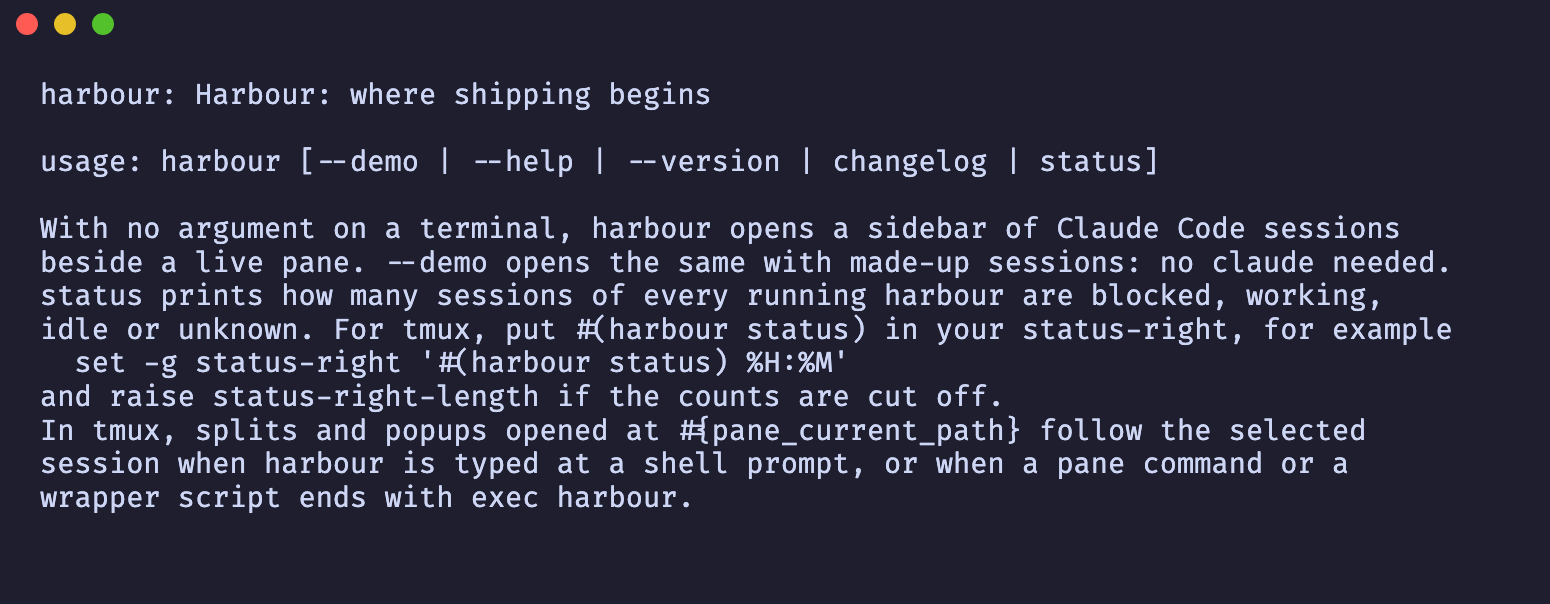
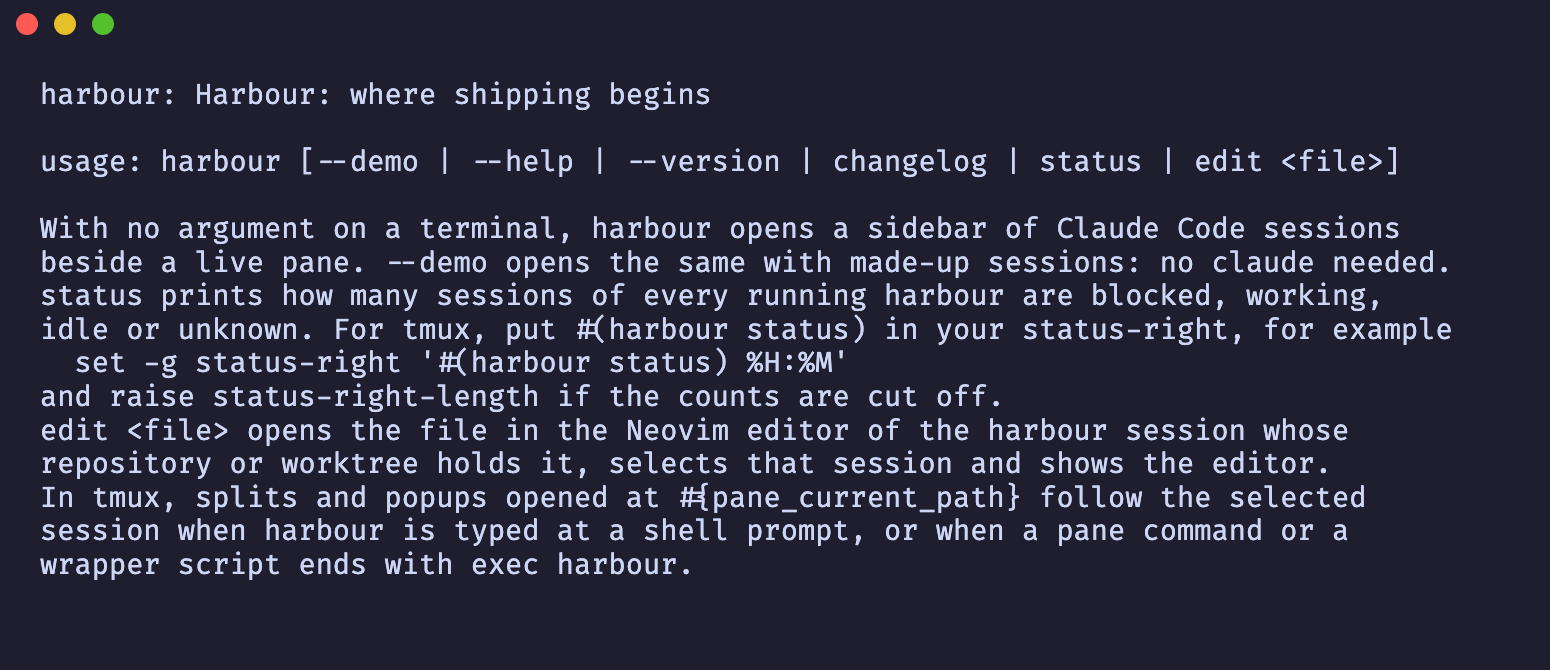
Write harbour edit into the guidelines and build the peer check on Linux
AGENTS.md names src/handoff.rs, src/app/handoff.rs and their tests, and lists
answering harbour edit on the draw thread as a known limit. docs/help.png shows
edit in the usage. The phase 12 plan gets its outcome and hurdles. The check
that a request comes from the same user reads SO_PEERCRED on Linux, where
getpeereid does not exist and the build failed.

diff --git a/src/handoff.rs b/src/handoff.rs
@@ -13,7 +13,7 @@ use std::time::{Duration, Instant, SystemTime};
 
 use nix::errno::Errno;
 use nix::sys::socket::{AddressFamily, SockFlag, SockType, UnixAddr};
-use nix::unistd::{Uid, getpeereid};
+use nix::unistd::Uid;
 
 const LONGEST_PATH: usize = 4096;
 const LONGEST_REQUEST: usize = LONGEST_PATH + 64;
@@ -313,8 +313,7 @@ impl Listener {
 }
 
 fn received(stream: UnixStream) -> Option<Request> {
-    let (uid, _) = getpeereid(&stream).ok()?;
-    if uid != Uid::current() {
+    if peer(&stream)? != Uid::current() {
         return None;
     }
     stream.set_nonblocking(false).ok()?;
@@ -339,6 +338,18 @@ fn received(stream: UnixStream) -> Option<Request> {
         file: PathBuf::from(OsString::from_vec(file.to_vec())),
         stream,
     })
+}
+
+#[cfg(target_os = "linux")]
+fn peer(stream: &UnixStream) -> Option<Uid> {
+    let credentials =
+        nix::sys::socket::getsockopt(stream, nix::sys::socket::sockopt::PeerCredentials).ok()?;
+    Some(Uid::from_raw(credentials.uid()))
+}
+
+#[cfg(not(target_os = "linux"))]
+fn peer(stream: &UnixStream) -> Option<Uid> {
+    nix::unistd::getpeereid(stream).ok().map(|(uid, _)| uid)
 }
 
 struct Bound {

diff --git a/AGENTS.md b/AGENTS.md
@@ -44,15 +44,17 @@ The layout names what each file or directory is for; read its functions from the
 rules from the `AGENTS.md` of its directory.
 
 ```
-src/main.rs      the binary: `--version`/`-V`/`version`, `--help`/`-h`/`help`, `changelog`, `status` (the counts for the tmux status line), the interface with no argument on a terminal, the same with made-up sessions for `--demo` on a terminal, the usage on anything else
+src/main.rs      the binary: `--version`/`-V`/`version`, `--help`/`-h`/`help`, `changelog`, `status` (the counts for the tmux status line), `edit <file>` (`src/handoff.rs`), the interface with no argument on a terminal, the same with made-up sessions for `--demo` on a terminal, the usage on anything else
 src/lib.rs                    the library the binary and the tests share
-src/tui.rs                    the terminal: enters and restores it, reads its events, draws the app; the program a session runs (`claude`, given `--session-id`, or what `HARBOUR_SESSION_COMMAND` names, given none; the transcripts are read for both); the directory picker (fzf over zoxide's list, or what `HARBOUR_DIR_PICKER` names); the editor (`nvim`, or the one program `HARBOUR_EDITOR` names, Neovim when its file name is `nvim`); it hands the app the real `chdir`, and makes a relative `CLAUDE_CONFIG_DIR` absolute before harbour moves
+src/tui.rs                    the terminal: enters and restores it, reads its events, draws the app, and hands it the listener of `harbour edit` (never in the demo); the program a session runs (`claude`, given `--session-id`, or what `HARBOUR_SESSION_COMMAND` names, given none; the transcripts are read for both); the directory picker (fzf over zoxide's list, or what `HARBOUR_DIR_PICKER` names); the editor (`nvim`, or the one program `HARBOUR_EDITOR` names, Neovim when its file name is `nvim`); it hands the app the real `chdir`, and makes a relative `CLAUDE_CONFIG_DIR` absolute before harbour moves
 src/picker.rs                 the directory picker of `n`: a program run as a session in a popup, its standard output sent to a file in a temporary directory only its owner can open (0700), the first line it prints, as bytes, canonicalized (read from where harbour was opened when relative), every path kept as bytes on the way into its arguments, exit statuses 126 and 127 (and 2 for fzf) named as "could not start"; fzf given `--no-expect --no-print-query --no-read0 --no-print0` after the user's `FZF_DEFAULT_OPTS`, so it prints one directory a line; for fzf the popup's own shell writes the list (harbour's directory first, then the list command's lines without it) into a FIFO fzf reads, so a slow list never holds up harbour, and a missing fzf means "start at once"; a bare program name is searched on `PATH` with each relative entry taken from where harbour was opened, where the popup's shell runs it
 src/app/mod.rs                the app: its state and what each key, paste and mouse event does; each session's one directory Claude Code was last seen in, which C-l opens, and its editors, one per directory, which `e` shows in turn
-src/app/draw.rs               what the app draws
+src/app/draw.rs               what the app draws, after answering up to 4 `harbour edit` requests a frame
+src/app/handoff.rs            which session holds a file `harbour edit` names (a path inside a session's `root`, resolved through symlinks; the selected session first, else the one whose keys, paste or mouse came last) and opening it: that session selected and its editor shown with the file, as C-l would show it; refused while a question or the picker waits, for an editor that is not Neovim, and when Neovim cannot start or take the file
+src/handoff.rs                `harbour edit <file>` and its listener: the file made absolute (its folder resolved when the file does not exist yet, 4096 bytes at most), every harbour asked over a socket in a private (0700) `$XDG_STATE_HOME/harbour/edit/`, else `~/.local/state/harbour/edit/`, which of its sessions holds it and when that one was last used, and the latest told to open it; the listener binds `<pid>-<n>.sock` (0600), removes it when dropped, binds again within 5 s when it is gone, removes the sockets no process listens on, and reads only a request from its own user that arrives within 100 ms and has not expired
 src/follow.rs                 where harbour works, so tmux's `#{pane_current_path}` follows the selected session: the `root` of the editor for its last seen directory, or where harbour was opened with no session or when that directory is gone or cannot be entered; checked at a frame when the selection or the directory changed, else every half second, and moved to only when it differs by path or by device and inode (a directory replaced in place is entered again); `temporary`, the temporary directory made absolute at start
 src/editor.rs                 an editor beside a session's Claude Code pane: the program it runs and the directory it belongs to, `root` (the repository root `repo::root` finds, the card's own walk, never walked up from a directory that is gone); Neovim listens on a socket in a private (0700) temporary directory removed with the editor, under `/tmp` when the temporary directory would make the socket path too long for macOS (103 bytes), and without one when that directory cannot be made, and says through it whether it has unsaved changes (`changes`: saved, unsaved, or unknown when it cannot be asked; a modified buffer counts when its `buftype` is empty or `acwrite`, a file the user would lose, never a terminal, prompt, `nofile` or `nowrite` buffer), and whether C-h stays in it (`wants_ctrl_h`: anything but mode `n` or `nt` with `blocking` false in the leftmost window); a session's editors end with it
-src/nvim.rs                   `mode` and `eval`: one msgpack-RPC `nvim_get_mode` or `nvim_eval` over that socket, the connect, the write and the read all bounded by one deadline, the reply matched by its request id (a notification before it is skipped, at most 1 MiB read), `None` for no answer before the deadline
+src/nvim.rs                   `mode`, `eval` and `edit`: one msgpack-RPC `nvim_get_mode`, `nvim_eval` or `nvim_cmd` (`edit` with the path as bytes and `magic` off, so `%`, `#`, `|` and spaces stay in the name) over that socket, the connect, the write and the read all bounded by one deadline, the reply matched by its request id (a notification before it is skipped, at most 1 MiB read), `None` for no answer before the deadline
 src/tabs.rs                   `strip`, a pure function: the pane border's `claude | <editor>: <directory>`, fitted by display width (the directory loses its start first, then the editor's name; nothing shows once not one column of the editor's name fits)
 src/session.rs                a session: a command in a PTY, refused as `Not a directory: <path>` when its directory is not one, its output parsed into a screen that renders as a widget, its terminal queries answered, its exit status, its screen never under 2 rows or 2 columns (vt100 panics below that); every call into vt100 contained, so a panic gives that session a fresh screen with the modes its program had turned on and a repaint instead of taking harbour down, and the panic hook stays silent for it; writes go through a writer thread so a child that does not read never blocks the interface; ending it (or dropping it) hangs up its whole process group, then kills it, only while the child is unreaped; quitting hangs up every session first and waits once
 src/demo.rs                   the made-up sessions of `--demo` and its picker (fzf over made-up directories, without harbour's directory), and its `nvim` (a script printing a made-up file, no socket): `acme/*` scripts, never real data; the registry they write in the temp dir, with a made-up checkout for each session to start in, removed when dropped
@@ -101,9 +103,10 @@ plans/                        one versioned plan file per phase, ending with its
 plans/metrics.md              time and tokens, one row per phase
 tests/           outside-in: `tests/cli.rs` runs the real binary;
                  `tests/scripts/` runs the scripts in a scratch directory and repository, with `tests/fixtures/` standing in for `cargo`, `gh`, `curl` and the scripts they call;
-                 `tests/e2e/` runs the real binary in a scratch tmux server (`#[ignore]`, see `tests/AGENTS.md`), with `HARBOUR_SESSION_COMMAND` pointing sessions at `tests/fixtures/agent.sh` (prints what it reads, a line at a time) or `tests/fixtures/raw-agent.sh` (asks for bracketed paste and the mouse, prints every byte it reads) instead of `claude`, or at `tests/fixtures/args-agent.sh` (prints its arguments, also linked as `claude` on the scratch `PATH` to see what the default gets), or at `tests/fixtures/registered-agent.sh` (writes a busy registry file under `CLAUDE_CONFIG_DIR`, else `HOME`, so it only runs with a scratch `HOME`) or `tests/fixtures/titled-agent.sh` (the same with a `sessionId` and a transcript); `tests/e2e/cards.rs` holds the tests of the cards, `HARBOUR_DIR_PICKER` at `tests/fixtures/picker.sh` (prints the line it reads), `HARBOUR_EDITOR` at `tests/fixtures/editor.sh` (prints its first argument, also linked as `nvim` to see what Neovim gets) or at `tests/fixtures/nvim/nvim` (a real Neovim with `--clean`, see `tests/AGENTS.md`), all three cleared from the environment unless the test sets them, `CLAUDE_CONFIG_DIR` cleared, `TMPDIR` a directory under the scratch `HOME` (so a picker left open leaves nothing behind), and `PATH` a scratch directory of links to the few tools the fixtures run, so no fzf or zoxide is on it;
+                 `tests/e2e/` runs the real binary in a scratch tmux server (`#[ignore]`, see `tests/AGENTS.md`), with `HARBOUR_SESSION_COMMAND` pointing sessions at `tests/fixtures/agent.sh` (prints what it reads, a line at a time) or `tests/fixtures/raw-agent.sh` (asks for bracketed paste and the mouse, prints every byte it reads) instead of `claude`, or at `tests/fixtures/args-agent.sh` (prints its arguments, also linked as `claude` on the scratch `PATH` to see what the default gets), or at `tests/fixtures/registered-agent.sh` (writes a busy registry file under `CLAUDE_CONFIG_DIR`, else `HOME`, so it only runs with a scratch `HOME`) or `tests/fixtures/titled-agent.sh` (the same with a `sessionId` and a transcript); `tests/e2e/cards.rs` holds the tests of the cards, `HARBOUR_DIR_PICKER` at `tests/fixtures/picker.sh` (prints the line it reads), `HARBOUR_EDITOR` at `tests/fixtures/editor.sh` (prints its first and last argument, also linked as `nvim` to see what Neovim gets) or at `tests/fixtures/nvim/nvim` (a real Neovim with `--clean`, see `tests/AGENTS.md`), all three cleared from the environment unless the test sets them, `CLAUDE_CONFIG_DIR` cleared, `TMPDIR` a directory under the scratch `HOME` (so a picker left open leaves nothing behind), and `PATH` a scratch directory of links to the few tools the fixtures run, so no fzf or zoxide is on it;
                  `tests/status.rs` runs `harbour status` over summaries a test writes and locks itself, `tests/summary.rs` writes them with `Summary`;
                  `tests/session.rs` and `tests/app/` run sessions in process, as `/bin/sh -c` scripts;
+                 `tests/edit.rs` runs `harbour edit` against listeners of `tests/handoff.rs`'s kind, which a test answers itself; `tests/app/handoff.rs` hands the app requests and stands in a socket for Neovim; `tests/e2e/edit.rs` runs `harbour edit` against harbour, and `tests/e2e/neovim.rs` against a real clean Neovim;
                  `tests/app/moving.rs` hands the app a recording move, never the real one; `tests/e2e/moving.rs` reads `#{pane_current_path}` of a harbour started with `Server::exec`;
                  `tests/tabs.rs` is the table of how the pane border's names fit a width;
                  `tests/text.rs` covers measuring, cutting, wrapping and cleaning text, `tests/card.rs` a card's lines, `tests/repo.rs` reading a repository and branch from scratch `.git` layouts, `tests/transcript.rs` reading a transcript;
@@ -171,6 +174,11 @@ impact.
   reads the session's registry file, then lists the transcript projects for the transcript of
   the session id it follows and reads what was appended to it, at most its last MiB
   (`src/transcript.rs`).
+- **`harbour edit` is answered on the draw thread**: up to 4 requests a frame, each read within
+  100 ms of its connection, and an open into a running Neovim asks it within 1 s, so a Neovim
+  that never answers holds the interface that long; a state directory path too long for a Unix
+  socket (104 bytes on macOS) means harbour never listens and `harbour edit` says none is
+  running (`plans/phase-12-edit-from-outside.md`).
 - **An editor's empty socket directory stays behind when a signal kills harbour**, a kill or the
   hangup of closing its terminal window: each Neovim's private directory in the temp directory is
   removed when its editor is dropped, which neither reaches (`src/editor.rs`).

diff --git a/plans/phase-12-edit-from-outside.md b/plans/phase-12-edit-from-outside.md
@@ -38,7 +38,8 @@ Unix sockets in a scratch `mktemp -d`.
   `tempfile::tempdir()` home plus `.local/state/harbour/edit/` is about 86 bytes before the
   socket's name: names must stay short.
 - `nix` 0.28 has `getuid` and `getpeereid` behind its `user` feature; harbour enables `signal`
-  and `socket` only, so this phase adds `user` (no new crate).
+  and `socket` only, so this phase adds `user` (no new crate). `getpeereid` exists only on
+  macOS and the BSDs; Linux reads the peer through `getsockopt` with `PeerCredentials`.
 
 ## How `harbour edit` reaches a running harbour
 
@@ -148,12 +149,34 @@ Product decisions the issue did not settle, each taken the most conservative way
    sender's `ask` and `open` with their deadlines, the expiry, the peer check.
 4. The app answers `ask` and `open`: which session holds the file, last use, refusals.
 5. Neovim gets the file: `nvim_cmd` with `magic` off to a running one, `-- <path>` to a new one;
-   refusals from Neovim; the fixture Neovim in-process, a real `nvim --clean` end to end.
+   refusals from Neovim; the fixture Neovim in-process.
 6. The terminal interface listens; end-to-end tests run `harbour edit` against harbour in a
-   scratch tmux server.
+   scratch tmux server, with the fixture editor and with a real `nvim --clean` (moved here from
+   task 5: a real Neovim runs only in the tmux tests).
 7. Guidelines: the layout lines and Known limits in `AGENTS.md`, the README checked, the
    screenshots.
 
 ## Outcome
 
+- `harbour edit <file>` shipped: the file made absolute, every running harbour asked over a
+  socket in its private state folder which session holds it, the one used last told to open
+  it; harbour selects that session and shows its Neovim with the file, starting one at the
+  session's root when none runs there.
+- The channel is one Unix socket per harbour (`<pid>-<n>.sock`, 0600, in a 0700 folder),
+  a request read only from the same user, within 100 ms, before its expiry; replies are one
+  line. Neovim gets the file after `--` when it starts, else through `nvim_cmd` `edit` with the
+  path as bytes and `magic` off, which a real clean Neovim confirmed for `acme %b#c|d e.rs`.
+- The app answers up to 4 requests a frame on the draw thread; an open into a running Neovim
+  waits at most 1 s for it. Both are in "Known limits".
+- A session holds only paths inside its root; the editor used is the one running at that root,
+  else a new one, as with Ctrl-l (older editors at other roots are not chosen).
+- The fixture editor `tests/fixtures/editor.sh` now prints its last argument too.
+
 ## Hurdles
+
+- `tooling` On macOS, `setsockopt` read and write timeouts fail with EINVAL once the peer has closed, so a reply to a sender that already left errored before the write; timeouts are now set before writing and their errors ignored → code
+- `test-seam` A temporary `Listener` in a test was dropped at the end of its statement, taking its socket with it, and the test failed for that reason alone; the tests keep a binding → none
+- `test-seam` The symlink case first went through the picker, which canonicalizes the directory it prints, so the test could not go red; it starts the session through `with_home` of a symlinked folder instead → code
+- `tooling` `moving::claude_code_moving_into_a_worktree_moves_harbour_to_the_worktree_root` timed out once under the full load of a ship (passes alone and in full runs); the ship passed on retry → none
+- `ci` `nix::unistd::getpeereid` does not exist on Linux, so `check` and the Linux `flake` failed to build a branch that built and passed on macOS; the peer check reads `SO_PEERCRED` on Linux, verified in a Linux container before the push → code
+- `process` Early in the phase some production code was written before its test had been run red, against the TDD rule; later tasks kept red first and broke by hand every test that passed at once → none
